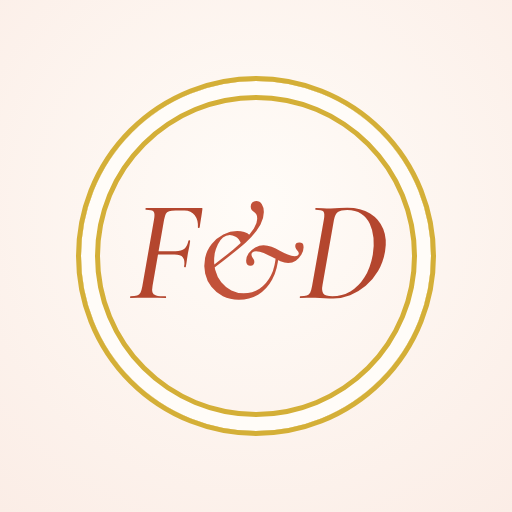
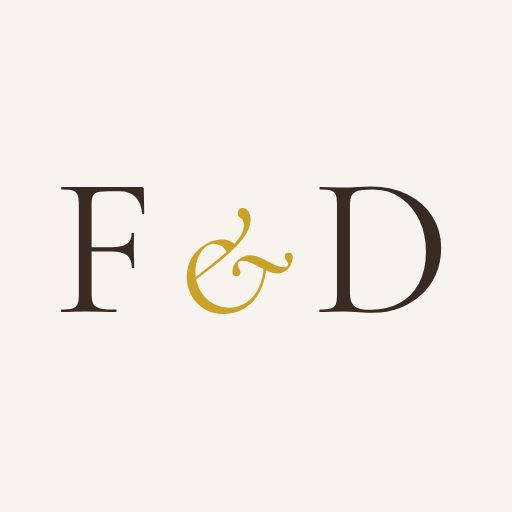
Monogramme F&D épuré et nouvelle icône d'application
Claude-Session: https://claude.ai/code/session_01Gzer8ZciNpAiN1Kok48ASR

Changed region(s): [[0.125, 0.125, 0.875, 0.875]]

diff --git a/index.html b/index.html
@@ -145,11 +145,13 @@ a { color: var(--forest); text-underline-offset: 0.18em; }
   font-family: var(--font-display); font-size: var(--step-1); text-decoration: none; color: var(--ink);
 }
 .brand-name { font-family: var(--font-body); font-size: 0.78rem; font-weight: 500; letter-spacing: 0.24em; text-transform: uppercase; white-space: nowrap; overflow: hidden; text-overflow: ellipsis; padding-block: 0.2rem; }
+/* Monogramme épuré : initiales droites, esperluette dorée, sans médaillon */
 .monogram {
-  flex: none; display: grid; place-items: center; width: 2.4rem; height: 2.4rem; border-radius: 50%;
-  border: 1px solid var(--gold); box-shadow: inset 0 0 0 3px var(--paper), inset 0 0 0 4px var(--gold);
-  font-family: var(--font-display); font-style: italic; font-weight: 500; font-size: 1rem; letter-spacing: -0.02em; color: var(--forest);
+  flex: none; display: inline-flex; align-items: baseline; line-height: 1;
+  font-family: var(--font-display); font-weight: 400; font-size: 1.4rem; letter-spacing: 0.04em; color: var(--ink);
 }
+.monogram i { font-style: italic; font-size: 0.78em; color: var(--gold); margin: 0 0.1em; }
+.brand .brand-name { padding-left: 0.7rem; border-left: 1px solid var(--line); }
 @media (max-width: 460px) { .brand-name { display: none; } }
 .top-tools { display: flex; align-items: center; gap: 0.75rem; }
 .textsize, .langs { display: flex; align-items: center; gap: 0.25rem; }
@@ -700,7 +702,7 @@ html:not(.js) .toc-nojs { display: grid; gap: 0.75rem; padding: 1.25rem 0 0.5rem
   <header class="topbar">
     <div class="brand-wrap">
     <button type="button" class="icon-btn nav-toggle" id="menu-open" aria-controls="sidebar" aria-expanded="true" aria-label="Replier le menu"><svg viewBox="0 0 24 24" aria-hidden="true"><path d="M4 7h16M4 12h16M4 17h16"></path></svg></button>
-    <a class="brand" href="#p-accueil"><span class="monogram" aria-hidden="true">F&amp;D</span><span class="brand-name">Fitia &amp; Diana</span></a>
+    <a class="brand" href="#p-accueil"><span class="monogram" aria-hidden="true">F<i>&amp;</i>D</span><span class="brand-name">Fitia &amp; Diana</span></a>
     </div>
     <div class="top-tools">
       <button type="button" class="prof-pill" id="prof-pill" data-open-intro="" aria-label="Votre profil : J’arrive d’Europe · changer"><svg viewBox="0 0 24 24" aria-hidden="true"><path d="M2.5 13.5l7-2 4-7.5h2l-1.5 7.5 5-1.5 1.5-2.5h1.5l-1 4 1 4h-1.5l-1.5-2.5-5-1.5 1.5 7.5h-2l-4-7.5-7-2z"></path></svg><span>Europe</span></button>
@@ -955,8 +957,8 @@ html:not(.js) .toc-nojs { display: grid; gap: 0.75rem; padding: 1.25rem 0 0.5rem
           <div data-i18n="vols.f4"><dt>Décalage horaire</dt><dd>+1 h par rapport à Paris et Madrid en avril.</dd></div>
         </dl>
         <div class="clock">
-          <div><span data-i18n="clock.tnr">À Tananarive</span><b class="mono" id="clock-tnr">08:54</b></div>
-          <div><span data-i18n="clock.par">À Paris</span><b class="mono" id="clock-par">07:54</b></div>
+          <div><span data-i18n="clock.tnr">À Tananarive</span><b class="mono" id="clock-tnr">08:59</b></div>
+          <div><span data-i18n="clock.par">À Paris</span><b class="mono" id="clock-par">07:59</b></div>
           <p id="clock-diff">Aujourd’hui, Madagascar a 1 h d’avance sur Paris. En avril, l’écart sera de 1 h.</p>
         </div>
       </div>
@@ -1230,7 +1232,7 @@ html:not(.js) .toc-nojs { display: grid; gap: 0.75rem; padding: 1.25rem 0 0.5rem
     <div class="menu-inner">
       <div class="lamba" aria-hidden="true"></div>
       <div class="menu-head">
-        <span class="monogram" aria-hidden="true">F&amp;D</span>
+        <span class="monogram" aria-hidden="true">F<i>&amp;</i>D</span>
         <h2 id="menu-title" lang="mg">Tonga soa</h2>
         <button class="icon-btn" type="button" id="menu-close" aria-label="Fermer" data-i18n-aria="menu.close"><svg viewBox="0 0 24 24" aria-hidden="true"><path d="M5 5l14 14M19 5L5 19"></path></svg></button>
       </div>

diff --git a/sw.js b/sw.js
@@ -1,6 +1,6 @@
 // Hors connexion : une fois ouvert, le site reste consultable sans réseau (utile à Madagascar).
 // La page est toujours redemandée au réseau d'abord, pour que les invités voient les mises à jour.
-const CACHE = 'fitia-diana-v1';
+const CACHE = 'fitia-diana-v2';
 const CORE = ['./', 'manifest.webmanifest', 'assets/bouquet.webp', 'assets/coin-fleuri.webp',
   'icons/icon-192.png', 'icons/icon-512.png', 'icons/apple-touch-icon.png', 'icons/favicon-32.png'];
 
